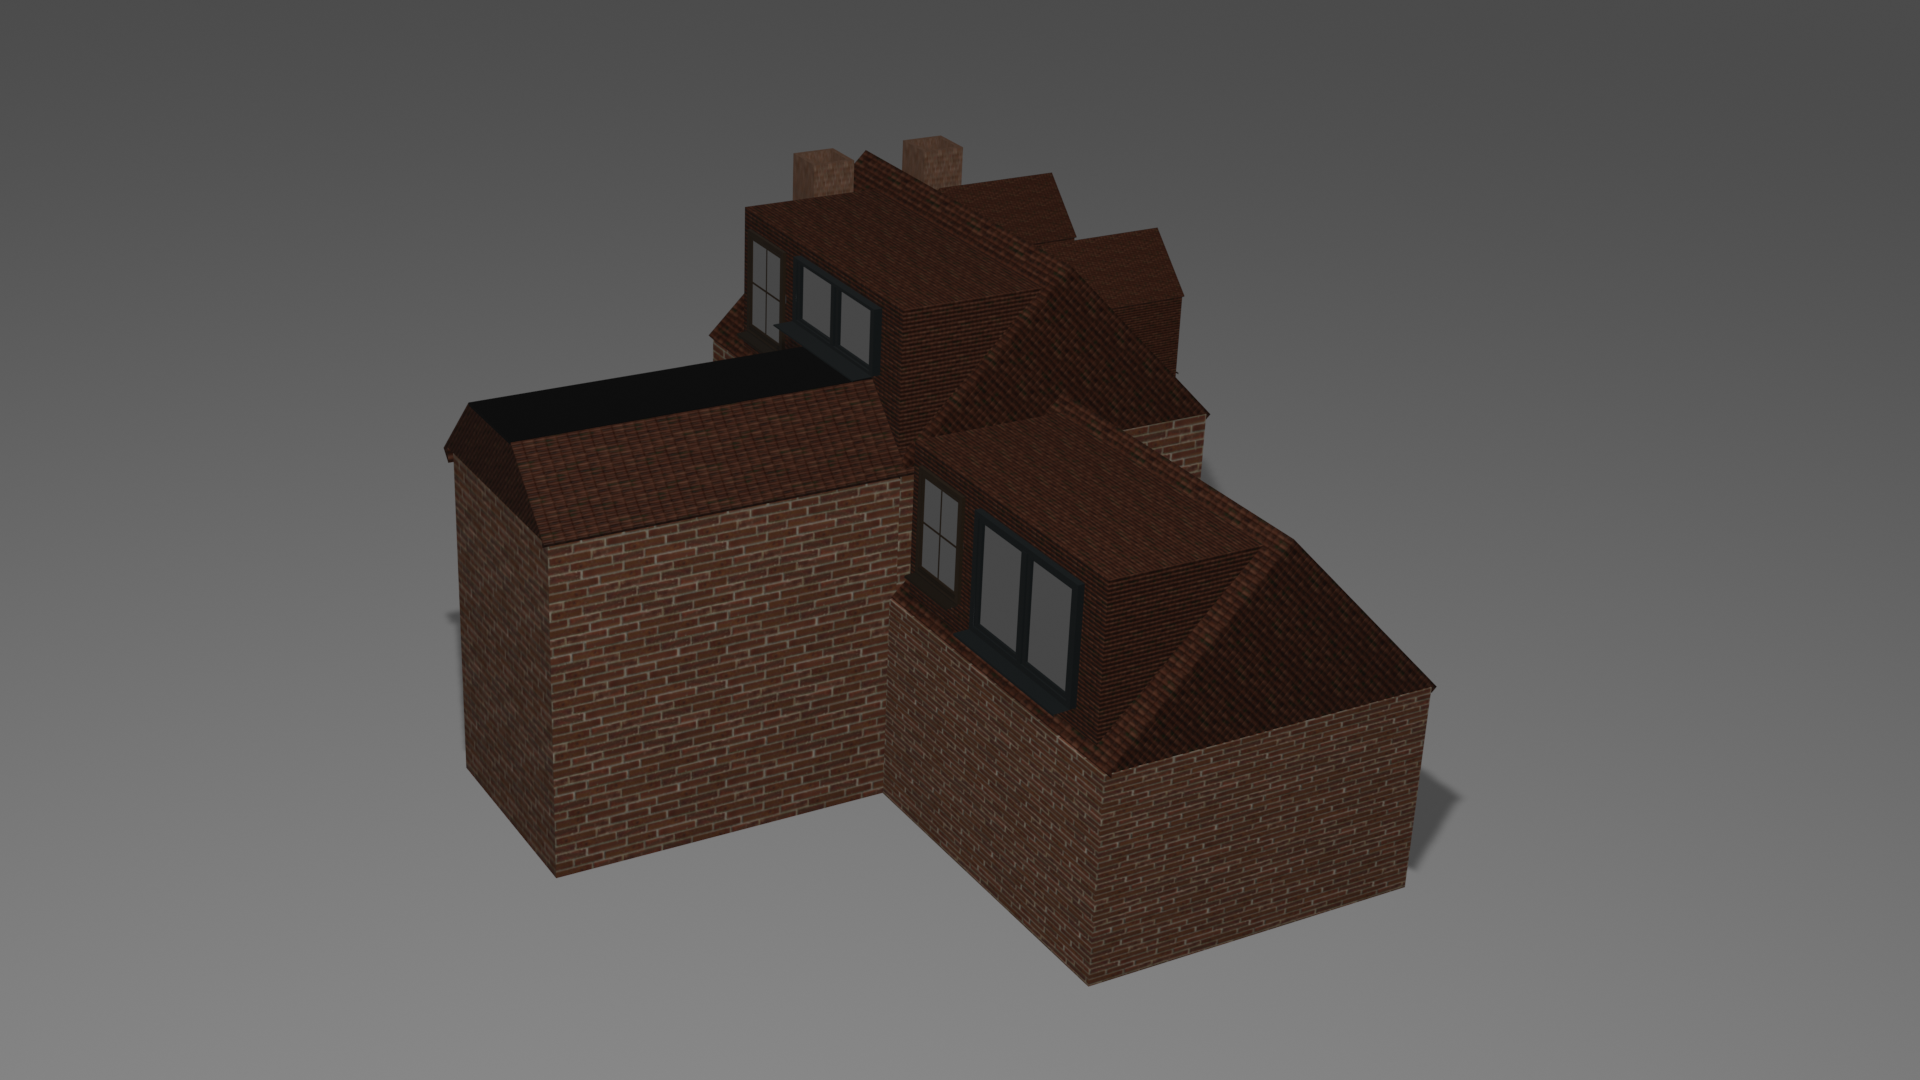
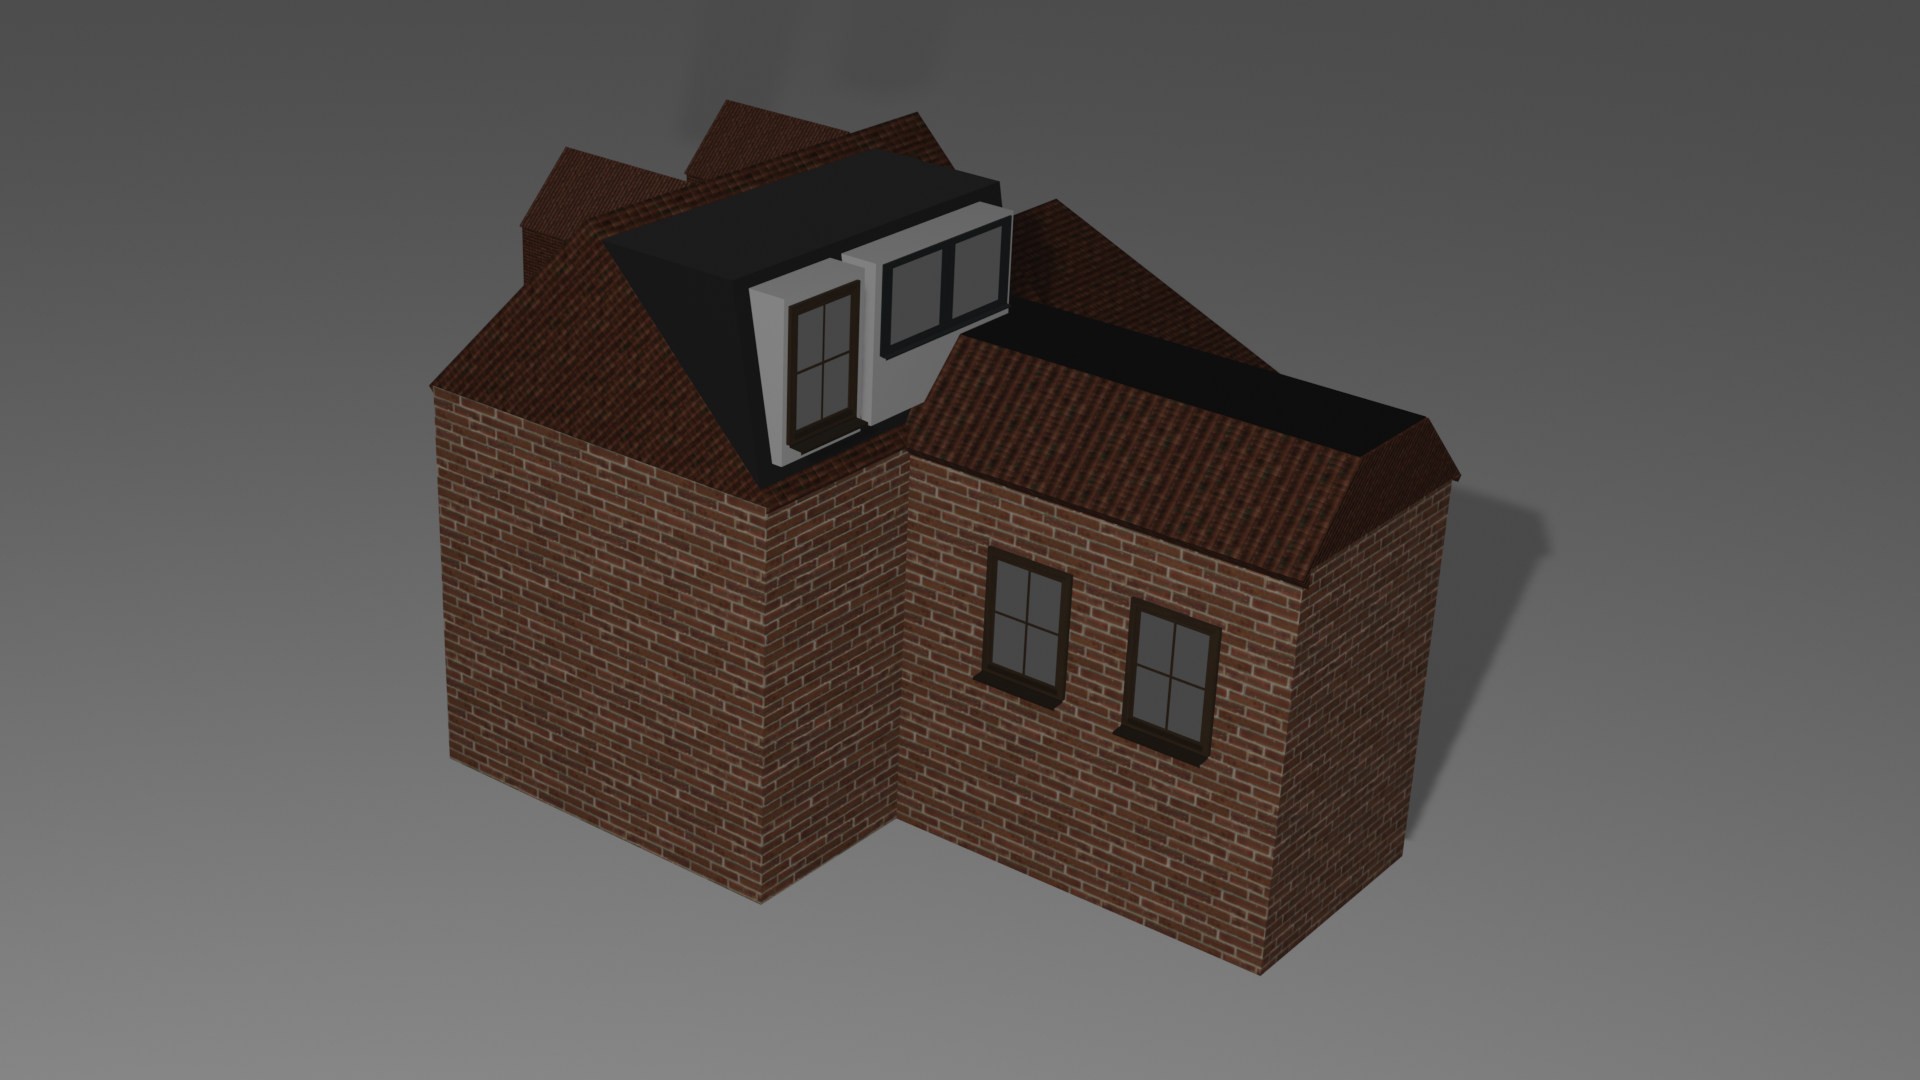
Loft Updates

Changed region(s): [[0.2188, 0.0917, 0.8125, 0.9167]]

diff --git a/components/services/page.js b/components/services/page.js
@@ -1,75 +1,127 @@
-import Image from 'next/image'
-import styles from './Service.module.css'
-import Link from 'next/link'
-import { Raleway } from 'next/font/google'
-import { Oswald } from 'next/font/google';
+import Image from "next/image";
+import styles from "./Service.module.css";
+import Link from "next/link";
+import { Raleway } from "next/font/google";
+import { Oswald } from "next/font/google";
 
 const Oswald1 = Oswald({
-    weight: '400',
-    subsets: ['latin'],
-  })
-  
-  const raleWay = Raleway({
-    weight: '500',
-    subsets: ['latin'],
-  })
-  
+  weight: "400",
+  subsets: ["latin"],
+});
+
+const raleWay = Raleway({
+  weight: "500",
+  subsets: ["latin"],
+});
+
 export default function Services() {
-    return (
-        <div className={raleWay.className} style={{display: "block"}}>
-            <div className={styles.Header}>
-            <h1 className={Oswald1.className} style={{textAlign: "center"}}>Services</h1>
-            </div>
-            
-       <div className={styles.Container}>
-        
-        <div className={styles.Services}>
-            <div className={styles.ServiceImage}>
-                <Image  src="/En2/Loft2.jpg" style={{objectFit: "contain"}} blurDataURL="data:..."  placeholder="blur" fill={true}  alt="Bathroom Photo" />
-            </div>
-            <div className={styles.ServiceText}>
-                <h2>Loft Extensions</h2>
-                <p> we specialize in transforming attic spaces into functional living areas. Our expert team offers tailored services from design to finish, adding value and enhancing your home with quality craftsmanship. Trust us to make your loft a stunning extension of your home</p>
-            </div>   
-        </div>
+  return (
+    <div className={raleWay.className} style={{ display: "block" }}>
+      <div className={styles.Header}>
+        <h1 className={Oswald1.className} style={{ textAlign: "center" }}>
+          Services
+        </h1>
+      </div>
 
+      <div className={styles.Container}>
         <div className={styles.Services}>
-        <div className={styles.ServiceImage}>
-                <Image  src="/Gallery/61.jpg" style={{objectFit: "contain"}} blurDataURL="data:..."  placeholder="blur" fill={true}  alt="Bathroom Photo" />
-        </div> 
-        <div className={styles.ServiceText}>
-                <h2>Side Extension</h2>
-                <p>Our side extension services are designed to maximize your living space while seamlessly blending with your existing home. With a focus on quality craftsmanship and innovative design, we create functional and aesthetically pleasing extensions tailored to your needs. Trust us to expand your living space, adding value and comfort to your property.</p>
-        </div>
-                           
-        </div>
-
-        <div className={styles.Services}>
-            
-            <div className={styles.ServiceImage}>
-                <Image  src="/Gallery/Enfiled Fibre Glass Roof.jpg"  style={{objectFit: "contain"}} blurDataURL="data:..."  placeholder="blur" fill={true}  alt="Bathroom Photo" />
-            </div>
-            
-            <div className={styles.ServiceText}>
-                <h2>GRP flat roof installation</h2>
-                <p>Our GRP roofing solutions offer superior protection and durability for your property. With expert installation and top-quality materials, we guarantee a watertight and long-lasting roofing system that demands minimal maintenance. Rest easy knowing our GRP roofing can withstand the elements while enhancing your property's aesthetics.</p>
-            </div>   
+          <div className={styles.ServiceImage}>
+            <Image
+              src="/En2/Loft2.jpg"
+              style={{ objectFit: "contain" }}
+              blurDataURL="data:..."
+              placeholder="blur"
+              fill={true}
+              alt="Bathroom Photo"
+            />
+          </div>
+          <div className={styles.ServiceText}>
+            <h2>Loft Extensions</h2>
+            <p>
+              {" "}
+              we specialize in transforming attic spaces into functional living
+              areas. Our expert team offers tailored services from design to
+              finish, adding value and enhancing your home with quality
+              craftsmanship. Trust us to make your loft a stunning extension of
+              your home
+            </p>
+          </div>
         </div>
 
         <div className={styles.Services}>
-        <div className={styles.ServiceImage}>
-                <Image  src="/Gallery/74.jpg" blurDataURL="data:..." style={{objectFit: "contain"}} placeholder="blur" fill={true}  alt="Bathroom Photo" />
-        </div>        
-
-        <div className={styles.ServiceText}>
-                <h2>Steel Installation</h2>
-                <p>we excel in precision and strength. Our experienced team delivers efficient and reliable steel installations for various applications, ensuring structural integrity and safety. Whether it's for residential or commercial projects, trust us to provide robust steel solutions that meet your specific needs while adhering to industry standards.</p>
+          <div className={styles.ServiceImage}>
+            <Image
+              src="/Gallery/Side_Extension.jpg"
+              style={{ objectFit: "contain" }}
+              blurDataURL="data:..."
+              placeholder="blur"
+              fill={true}
+              alt="Bathroom Photo"
+            />
+          </div>
+          <div className={styles.ServiceText}>
+            <h2>Side Extension</h2>
+            <p>
+              Our side extension services are designed to maximize your living
+              space while seamlessly blending with your existing home. With a
+              focus on quality craftsmanship and innovative design, we create
+              functional and aesthetically pleasing extensions tailored to your
+              needs. Trust us to expand your living space, adding value and
+              comfort to your property.
+            </p>
+          </div>
         </div>
-       
-                      
+
+        <div className={styles.Services}>
+          <div className={styles.ServiceImage}>
+            <Image
+              src="/Gallery/Enfiled Fibre Glass Roof.jpg"
+              style={{ objectFit: "contain" }}
+              blurDataURL="data:..."
+              placeholder="blur"
+              fill={true}
+              alt="Bathroom Photo"
+            />
+          </div>
+
+          <div className={styles.ServiceText}>
+            <h2>GRP flat roof installation</h2>
+            <p>
+              Our GRP roofing solutions offer superior protection and durability
+              for your property. With expert installation and top-quality
+              materials, we guarantee a watertight and long-lasting roofing
+              system that demands minimal maintenance. Rest easy knowing our GRP
+              roofing can withstand the elements while enhancing your property's
+              aesthetics.
+            </p>
+          </div>
         </div>
 
-       </div>
-       </div>
-       
-    )};
+        <div className={styles.Services}>
+          <div className={styles.ServiceImage}>
+            <Image
+              src="/Gallery/74.jpg"
+              blurDataURL="data:..."
+              style={{ objectFit: "contain" }}
+              placeholder="blur"
+              fill={true}
+              alt="Bathroom Photo"
+            />
+          </div>
+
+          <div className={styles.ServiceText}>
+            <h2>Steel Installation</h2>
+            <p>
+              we excel in precision and strength. Our experienced team delivers
+              efficient and reliable steel installations for various
+              applications, ensuring structural integrity and safety. Whether
+              it's for residential or commercial projects, trust us to provide
+              robust steel solutions that meet your specific needs while
+              adhering to industry standards.
+            </p>
+          </div>
+        </div>
+      </div>
+    </div>
+  );
+}

diff --git a/app/globals.css b/app/globals.css
@@ -1,78 +1,3 @@
-:root {
-  --max-width: 1100px;
-  --border-radius: 12px;
-  --font-mono: ui-monospace, Menlo, Monaco, "Cascadia Mono", "Segoe UI Mono",
-    "Roboto Mono", "Oxygen Mono", "Ubuntu Monospace", "Source Code Pro",
-    "Fira Mono", "Droid Sans Mono", "Courier New", monospace;
-
-  --foreground-rgb: 0, 0, 0;
-  --background-start-rgb: 214, 219, 220;
-  --background-end-rgb: 255, 255, 255;
-
-  --primary-glow: conic-gradient(
-    from 180deg at 50% 50%,
-    #16abff33 0deg,
-    #0885ff33 55deg,
-    #54d6ff33 120deg,
-    #0071ff33 160deg,
-    transparent 360deg
-  );
-  --secondary-glow: radial-gradient(
-    rgba(255, 255, 255, 1),
-    rgba(255, 255, 255, 0)
-  );
-
-  --tile-start-rgb: 239, 245, 249;
-  --tile-end-rgb: 228, 232, 233;
-  --tile-border: conic-gradient(
-    #00000080,
-    #00000040,
-    #00000030,
-    #00000020,
-    #00000010,
-    #00000010,
-    #00000080
-  );
-
-  --callout-rgb: 238, 240, 241;
-  --callout-border-rgb: 172, 175, 176;
-  --card-rgb: 180, 185, 188;
-  --card-border-rgb: 131, 134, 135;
-}
-
-@media (prefers-color-scheme: dark) {
-  :root {
-    --foreground-rgb: 255, 255, 255;
-    --background-start-rgb: 0, 0, 0;
-    --background-end-rgb: 0, 0, 0;
-
-    --primary-glow: radial-gradient(rgba(1, 65, 255, 0.4), rgba(1, 65, 255, 0));
-    --secondary-glow: linear-gradient(
-      to bottom right,
-      rgba(1, 65, 255, 0),
-      rgba(1, 65, 255, 0),
-      rgba(1, 65, 255, 0.3)
-    );
-
-    --tile-start-rgb: 2, 13, 46;
-    --tile-end-rgb: 2, 5, 19;
-    --tile-border: conic-gradient(
-      #ffffff80,
-      #ffffff40,
-      #ffffff30,
-      #ffffff20,
-      #ffffff10,
-      #ffffff10,
-      #ffffff80
-    );
-
-    --callout-rgb: 20, 20, 20;
-    --callout-border-rgb: 108, 108, 108;
-    --card-rgb: 100, 100, 100;
-    --card-border-rgb: 200, 200, 200;
-  }
-}
-
 * {
   box-sizing: border-box;
   padding: 0;
@@ -97,11 +22,6 @@ a {
   text-decoration: none;
 }
 
-@media (prefers-color-scheme: dark) {
-  html {
-    color-scheme: dark;
-  }
-}
 html {
   scroll-behavior: smooth;
 }
@@ -115,6 +35,7 @@ main {
 }
 
 .Intro {
+  margin-top: 25vh;
   margin-left: 25%;
   width: 50%;
   text-align: center;

diff --git a/app/page.js b/app/page.js
@@ -38,19 +38,10 @@ export default function Home() {
           gtag('config', 'G-DP4TSF0JWV');
         `}
         </Script>
-        <motion.div className={styles.mainImage} style={{ y }}>
-          <Image
-            src="/En2/Loft.jpg"
-            width={4000}
-            height={400}
-            className="landScape"
-            style={{ objectFit: "cover" }}
-            alt="Picture of the author"
-          />
+        <motion.div className="Portrait" style={{ y }}>
           <Image
             src="/En2/Bathroom-1736X981.jpg"
             fill={true}
-            className="Portrait"
             style={{ objectFit: "contain" }}
             alt="Picture of the author"
           />

diff --git a/app/LoftTypes/page.js b/app/LoftTypes/page.js
@@ -114,7 +114,7 @@ export default function LoftTypes() {
         <div className={styles.type}>
           <Image
             loading="lazy"
-            src="/Renders/Mansard.png"
+            src="/Renders/Mansard2.png"
             blurDataURL="data:..."
             placeholder="blur"
             width={400}
@@ -136,7 +136,7 @@ export default function LoftTypes() {
         <div className={styles.type}>
           <Image
             loading="lazy"
-            src="/Renders/velux.png"
+            src="/Renders/velux2.png"
             blurDataURL="data:..."
             placeholder="blur"
             width={400}

diff --git a/app/contact/page.js b/app/contact/page.js
@@ -109,6 +109,11 @@ export default function Contact() {
           </h2>
           <h2 className={OpenS.className}>
             {" "}
+            <span className="material-symbols-outlined">call </span>{" "}
+            +447736777527{" "}
+          </h2>
+          <h2 className={OpenS.className}>
+            {" "}
             <span className="material-symbols-outlined">mail</span> info@lml.ltd
           </h2>
         </div>

diff --git a/app/contact/Footer.module.css b/app/contact/Footer.module.css
@@ -75,7 +75,9 @@
   width: 80%;
   margin: 3% 5% 0% 10%;
 }
-
+.ContactText h2 {
+  margin: 2%;
+}
 @media (orientation: portrait) and (max-width: 800px) {
   .Contact {
     width: 100%;
